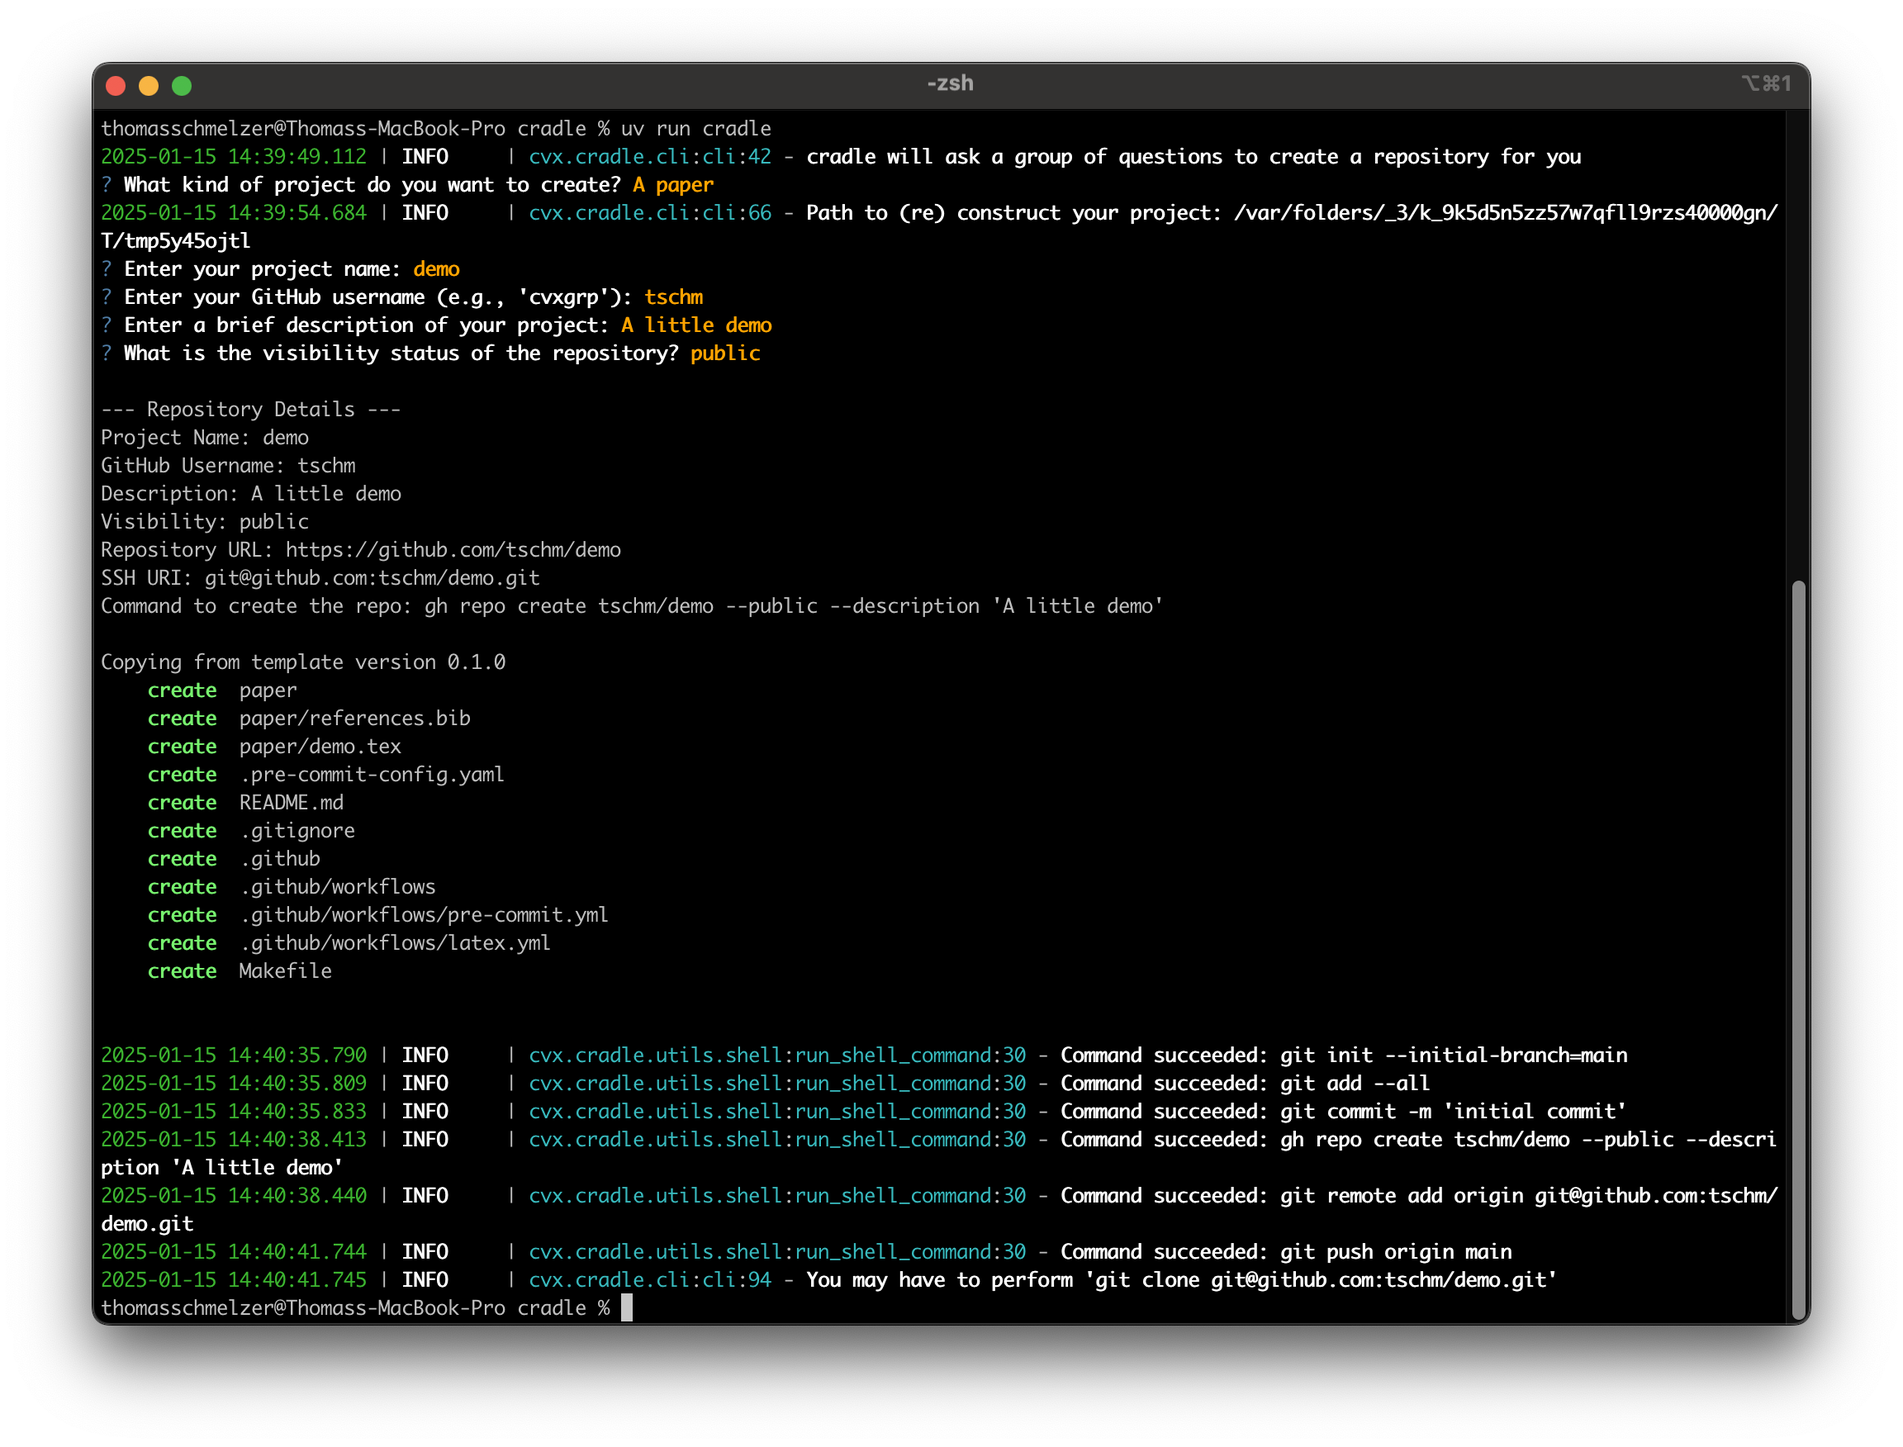
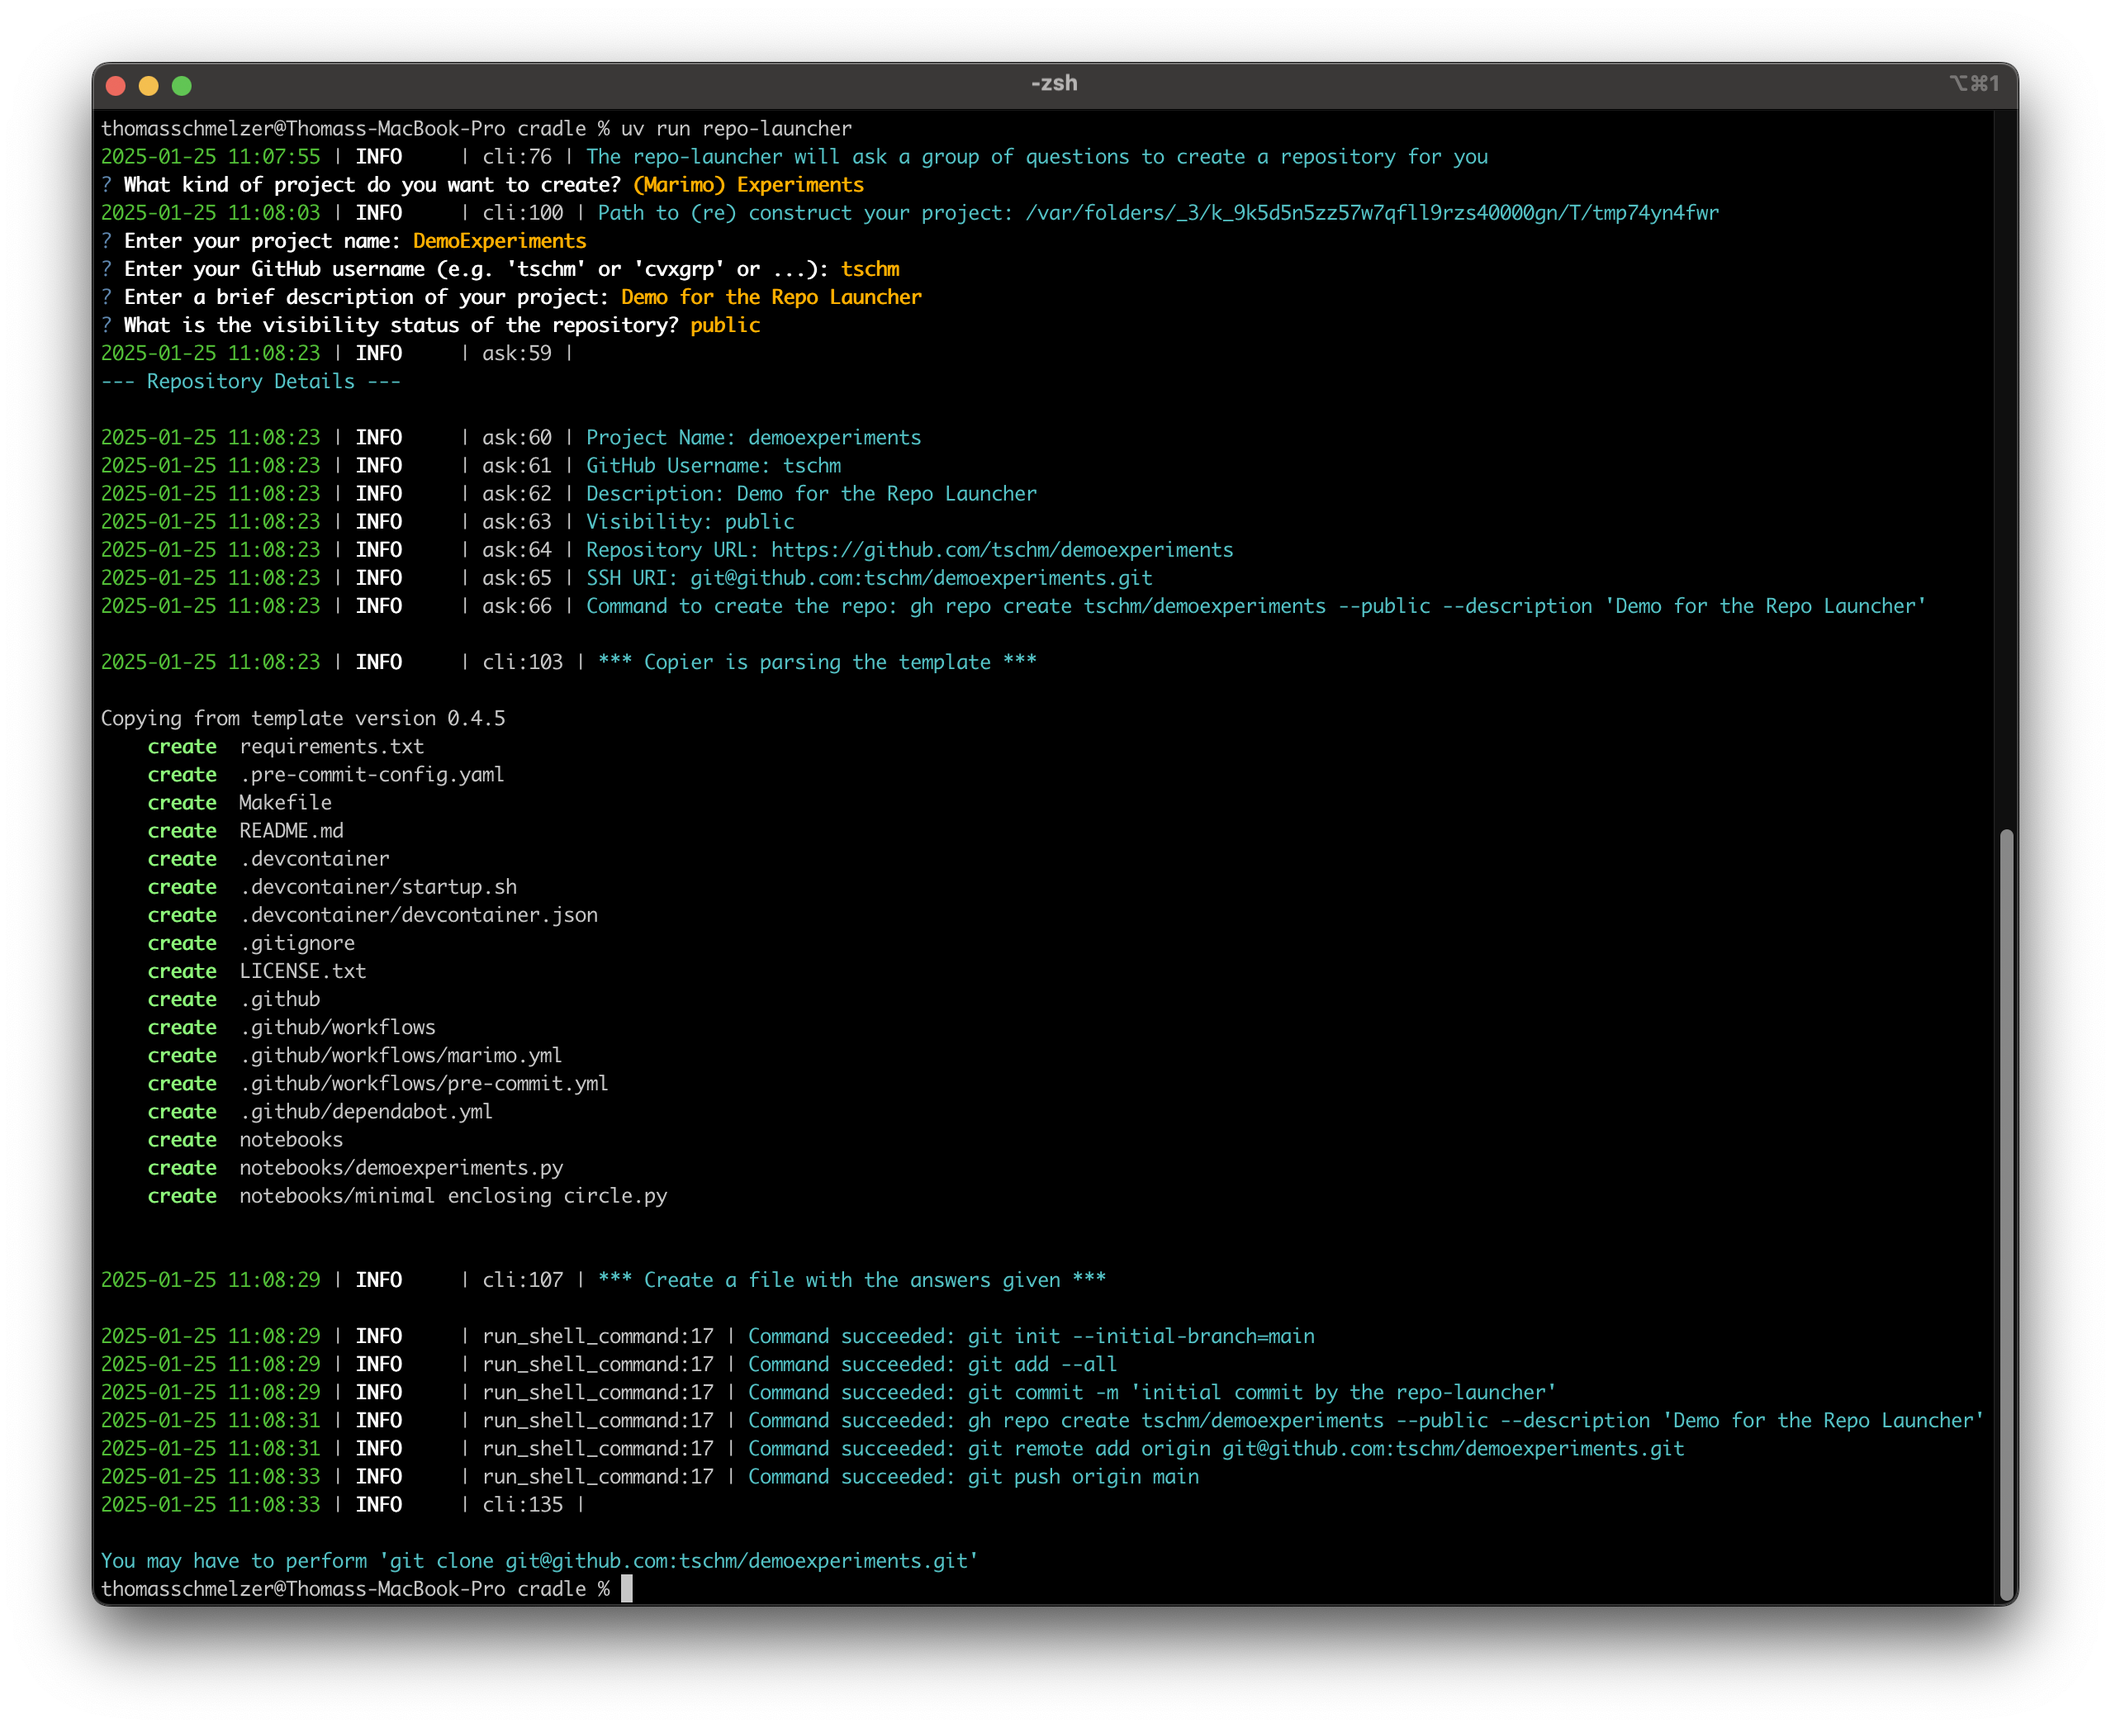
logging without full name of the package

diff --git a/src/cradle/cli.py b/src/cradle/cli.py
@@ -1,5 +1,6 @@
 import os
 import shutil
+import sys
 import tempfile
 from pathlib import Path
 
@@ -12,6 +13,17 @@ from loguru import logger
 from .utils.git import assert_git_version
 from .utils.questions import ask
 from .utils.shell import run_shell_command
+
+# from loguru import logger
+
+# Add a new logger with a simpler format
+logger.remove()  # Remove the default logger
+logger.add(
+    sys.stdout,
+    colorize=True,  # Enable color output
+    format="<green>{time:YYYY-MM-DD HH:mm:ss}</green> | "
+    "<level>{level: <8}</level> | {function}:{line} | <cyan>{message}</cyan>",
+)
 
 
 def load_templates(yaml_path: Path) -> dict[str, str]:
